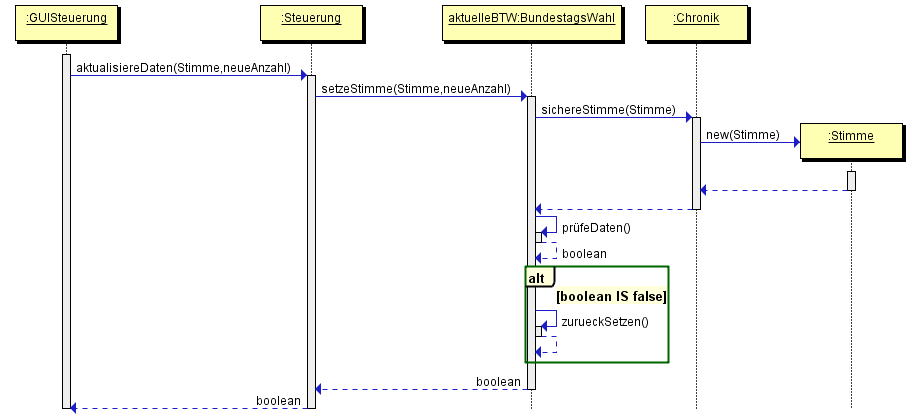
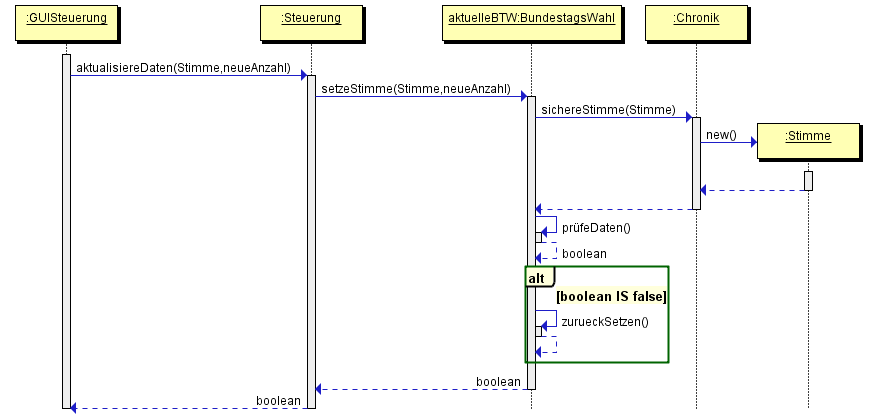
Chronik fix.

diff --git a/Entwurf/Entwurfsdokument/Entwurf.tex b/Entwurf/Entwurfsdokument/Entwurf.tex
@@ -74,7 +74,7 @@ Außerdem wird Bundestagswahl im gesamten Entwurfsdokument durch BTW abgekürzt.
 \includegraphics[scale=0.4]{GUI-Abschnitt.png} \caption{GUI Komponente} 
 \end{figure}
 
-Zum GUI-Teil gehören alle Klassen, die dazu beitragen, das Datenmodell bestmöglich auf der grafischen Benutzeroberfläche darzustellen. Im folgenden werden wichtige Klasse der GUI erläutert. Bei dem Entwurf der GUI wurde Wert darauf gelegt, dass diese nahezu unabhängig von dem Rest des Programmes ist und dadurch mit wenig Aufwand ausgewechselt werden kann.
+Zum GUI-Teil gehören alle Klassen, die dazu beitragen, das Datenmodell bestmöglich auf der grafischen Benutzeroberfläche darzustellen. Im folgenden werden wichtige Klasse der GUI erläutert.
 
 
 \begin{description}
@@ -83,11 +83,11 @@ Zum GUI-Teil gehören alle Klassen, die dazu beitragen, das Datenmodell bestmög
 Das {\myma{ProgrammFenster}} repräsentiert das gesamte Programm auf der grafischen Benutzeroberfläche.\\
 	\begin{description}
 	\item {\mymo{{wechsleTab(w : WahlFenster)}}} \\
-	Es wird zu dem {\myma{WahlFenster}} w gewechselt. \\
+	Es wird zu dem WahlFenster w gewechselt. \\
 	\end{description}
 
 \item  {\myma{{VergleichsFenster}}} \\
-Das {\myma{VergleichsFenster}} ist ein Teil des {\myma{ProgrammFenster}}s, wenn zwei verschiedene {\myma{Bundestagswahl}}en verglichen werden.\\
+Das {\myma{VergleichsFenster}} ist ein Teil des ProgrammFensters, wenn zwei verschiedene {\myma{Bundestagswahl}}en verglichen werden.\\
 	\begin{description}
 	\item {\mymo{{zeigeVergleich()}}} \\
 	
@@ -96,35 +96,35 @@ Das {\myma{VergleichsFenster}} ist ein Teil des {\myma{ProgrammFenster}}s, wenn 
 	\end{description}
 
 \item  {\myma{{WahlFenster}}} \\
-Das {\myma{WahlFenster}} repräsentiert eine einzelne {\myma{Bundestagswahl}}. In einem \\{\myma{ProgrammFenster}} sind mehrere {\myma{WahlFenster}} möglich, die in Form von Tabs dargestellt werden.\\
+Das {\myma{WahlFenster}} repräsentiert eine einzelne {\myma{Bundestagswahl}}. In einem {\myma{ProgrammFenster}} sind mehrere {\myma{WahlFenster}} möglich, die in Form von Tabs dargestellt werden.\\
 	\begin{description}
 	\item {\mymo{{wechsleAnsicht(a : Ansicht)}}} \\
-	Wechselt entweder zur {\myma{Bundes-}}, {\myma{Landes-}} und {\myma{Wahlkreisansicht}}. \\
+	Wechselt zur Ansicht a. \\
 	\item {\mymo{{bundestagswahlDarstellen(btw : Bundestagswahl)}}} \\
-	Verteilt an die drei Ansichten die Arbeit, das {\myma{Bundeswahl}}-Objekt btw darzustellen. \\
+	Verteilt an die drei Ansichten die Arbeit, das Bundeswahl-Objekt btw darzustellen. \\
 	\end{description} 
 
 \item  {\myma{{Ansicht}}} \\
 Die {\myma{Ansicht}} ist eine abstrakte Klasse. Diese kann drei Arten von Ansichten sein, {\myma{Bundes-}} {\myma{Landes-}} und {\myma{Wahlkreisansicht}}. Diese werden im Folgenden nicht näher erläutert.\\
 	\begin{description}
 	\item {\mymo{{zeigeKomponenten(btw : Bundestagswahl)}}} \\
-	In jeder der drei Ansichten wird die Darstellung, des {\myma{Bundestagswahl}}-Objekts auf die drei Fenster aufgeteilt. \\
+	In jeder der drei Ansichten wird die Darstellung, des Bundestagswahl-Objekts auf die drei Fenster aufgeteilt. \\
 	\end{description}
 
 \item  {\myma{{TabellenFenster}}} \\
-Das {\myma{TabellenFenster}} repräsentiert das im Pflichtenheft beschriebenen Tabellenfenster. Es stellt Teile der {\myma{Bundestagswahl}}-Klasse dar. \\
+Das {\myma{TabellenFenster}} korrespondiert zu dem im Pflichtenheft beschriebenen Tabellenfenster. Es stellt Teile der {\myma{Bundestagswahl}}-Klasse dar. \\
 	\begin{description}
 	\item {\mymo{{tabellenFuellen(btw : Bundestagswahl)}}} \\
-	Füllt das {\myma{TabellenFenster}} mit den notwendigen Daten des {\myma{Bundeswahl}}-Objekts.
+	Füllt das TabellenFenster mit den notwendigen Daten des Bundeswahl-Objekts.
 	\end{description}
 
 \item  {\myma{{DiagrammFenster}}} \\
-Das {\myma{DiagrammFenster}} stellt das im Pflichtenheft beschriebenen Diagrammfenster. Je nach {\myma{Ansicht}} wird dort die {\myma{Sitzverteilung}}, prozentuale Anzahl der {\myma{Zweit-}} oder {\myma{Erststimmen}} angezeigt. \\
+Das {\myma{DiagrammFenster}} korrespondiert zu dem im Pflichtenheft beschriebenen Diagrammfenster. Je nach {\myma{Ansicht}} wird dort die {\myma{Sitzverteilung}}, prozentuale Anzahl der {\myma{Zweit-}} oder {\myma{Erststimmen}} angezeigt. \\
 	\begin{description}
 	\item {\mymo{{erstelleDiagramm(btw : Bundestagswahl)}}} \\
 	Erstellt ein Diagramm auf Grund der Daten der Bundestagswahl btw.
 	\item {\mymo{{zeigeSitzverteilung()}}} \\
-	Öffnet ein {\myma{BerichtsFenster}}, in dem die Sitze der Verteilung näher erläutert werden.
+	Öffnet ein BerichtsFenster, in dem die Sitze der Verteilung näher erläutert werden.
 	\end{description}
 
 \item  {\myma{{KartenFenster}}} \\
@@ -133,14 +133,14 @@ Das {\myma{KartenFenster}} korrespondiert zu dem im Pflichtenheft beschriebenen 
 	\item {\mymo{{zeigeInformationen(btw : Bundestagswahl)}}} \\
 	Erstellt, wenn möglich, die kartografische Darstellung.
 	\item {\mymo{{faerbeBundeslaender(btw : Bundestagswahl))}}} \\
-	Färbt die einzelnen Bundesländer nach den {\myma{Partei}}en, die die meisten \\{\myma{Zweitstimme}}n haben. Diese Methode wird von zeigeInformationen benutzt.
+	Färbt die einzelnen Bundesländer nach den Parteien, die die meisten Zweitstimmen haben. Diese Methode wird von zeigeInformationen benutzt.
 	\end{description}
 
 \item  {\myma{{GUISteuerung}}} \\
-Die {\myma{GUISteuerung}} sorgt dafür, dass die aktuellste Version der {\myma{Bundestagswahl}} in einem {\myma{WahlFenster}} visualisiert wird. Dafür bekommt sie das aktuellste \\{\myma{Bundestagswahl}}-Objekt der {\myma{Steuerung}} und verteilt die Darstellungsarbeit an die Komponenten des {\myma{WahlFensters}}.
+Die {\myma{GUISteuerung}} sorgt dafür, dass die aktuellste Version der {\myma{Bundestagswahl}} in einem {\myma{WahlFenster}} visualisiert wird. Dafür bekommt sie das aktuellste {\myma{Bundestagswahl}}-Objekt der {\myma{Steuerung}} und verteilt die Darstellungsarbeit an die Komponenten des {\myma{WahlFensters}}.
 	\begin{description}
 	\item {\mymo{{aktualisiereWahlfenster()}}} \\
-	Diese Methode startet eine komplette Aktualisierung eines {\myma{WahlFenster}}s.
+	Diese Methode startet eine komplette Aktualisierung eines Wahlfensters.
 	\end{description}
 
 \end{description}
@@ -160,8 +160,9 @@ Folgende Methoden sind enthalten:
           \begin{description}
                \item {\mymo{prüfeDaten()}}\\
                Überprüft, ob die eingegebenen Stimmen gültig sind und unterzieht diese einem Konsistenz-Test. Die Methode wird nach jeder Stimmveränderung ausgeführt. Falls der Test nach einer Stimmveränderung fehlschlägt, wird die Stimme mithilfe der {\myma{Chronik}} zurückgesetzt und eine Fehlermeldung ausgegeben.
-              
-               \item {\mymo{setzeStimme(s:Stimme,anzahl:Integer) : Boolean}}\\
+              \item {\mymo{setzeStimme(s:Stimme) : Boolean}}\\
+              Eine BeDiese Funktion sucht alle Stimmen nach den selben Assoziationen und ruft 
+              \item {\mymo{setzeStimme(s:Stimme,anzahl:Integer) : Boolean}}\\
                Wird von der GUI über die Steuerung aufgerufen. Es wird das zu verändernde {\myma{Stimme}}-Objekt und die neue Anzahl der Stimmen übergeben. Es findet eine Vorüberprüfung statt, in der ermittelt wird was genau verändert wird. Es dürfen Erststimmen nur auf Wahlkreisebene und Zweitstimmen auf Wahlkreis-, Landes- und Bundesebene verändert werden. Die zu verändernde {\myma{Stimme}} wird geklont und in der {\myma{Chronik}} gespeichert. Dabei können drei Fälle auftreten: \\
                Falls die assoziierte Klasse von  {\myma{Stimme}}:\\
                ... ein {\myma{Wahlkreis}}-Objekt ist, wird der enthaltene Wert ``anzahl'' verändert in den Wert des übergebenen Parameters ``anzahl''. \\
@@ -252,33 +253,22 @@ Der obige Ausschnitt des Klassendiagramms zeigt das Wahldatengenerierungs-Modul.
 Zur Übersichtlichkeit werden in den Klassen {\myma{Partei}}, {\myma{Steuerung}} und {\myma{Bundestagswahl}} nur die für dieses Modul relevanten Informationen angezeigt.\\\\
 Mit diesem Modul können {\myma{Bundestagswahl}} Objekte anhand vorher definierten {\myma{Stimmanteilen}} auf Bundesebene generiert werden. Bei {\myma{Stimmanteile}} handelt es sich um eine Liste aller Parteien mit prozentualen Anteilen der Erst- und Zweitstimmen auf Bundesebene. Des weiteren benötigt der Wahlgenerator eine {\myma{basisWahl Bundestagswahl}} um Daten wie beispielsweise {\myma{Bundesländer}}, {\myma{Wahlkreise}} und {\myma{Wahlberechtigte}} zur Verfügung zu haben. Aus dieser basisWahl wird eine tiefe Kopie erstellt, deren Stimmzahlen anschließend verändert werden.\\\\
 
+Neben dem {\mymo Wahlgenerator}, der alle Stimmen der jeweiligen Parteien zufällig auf Wahlkreise verteilt gibt es noch den {\mymo NegStimmgewichtWahlgenerator}. Dieser erzeugt Bundestagswahlen, die die Voraussetzungen erfüllen, welche für die Simulation des Negativen Stimmgewichts benötigt werden.\\
+
+Dabei muss bei mindestens einer Partei der prozentuale Anteil ihrer relevanten Zweitstimmen größer als der prozentuale Anteil ihrer Mandate sein. Relevante Zweitstimmen sind all diejenigen Zweitstimmen, die auf Landeslisten abgegeben werden, die keine Überhangmandate erzielen.
+
+\subparagraph{Methoden}
 \begin{description}
-     \item {\myma{AbstrakterWahlgenerator}} \\
-     Ist eine abstrakte Oberklasse, die als Grundlage für die spezialisierten Klassen verwendet wird.     
-     
-     \item {\mymo{Wahlgenerator(basisWahl : Bundestagswahl, anteile : Stimmanteile)}} \\
+\item {\mymo{Wahlgenerator(basisWahl : Bundestagswahl, anteile : Stimmanteile)}} \\
 Der Konstruktor dieser Klasse. Wird verwendet um einen neuen {\mymo{Wahlgenerator}} zu erstellen. Hier werden die Attribute basisWahl, anteile, erststimmenAnzahl und zweitstimmenAnzahl gesetzt.
 \item {\mymo{berechneGesamtanzahlStimmen()}} \\
 Diese Methode ist privat und wird von dem Konstruktor verwendet um die Attribute {\mymo{anzahlErststimmen}} und {\mymo{anzahlZweitstimmen}} zu berechen. Hierzu werden die Stimmanteile mithilfe der Anzahl aller Wahlberechtigten in absolute Zahlen für Erst- und Zweitstimmen umgerechnet.
 \item {\mymo{erzeugeBTW() : Bundestagswahl}} \\
 Erzeugt eine neue Bundestagswahl auf der Grundlage der basisWahl und füllt diese mit den Erst- und Zweitstimmen.
 \item {\mymo{verteileStimmen()}} \\
-Diese Methode verteilt alle Erst- und Zweitstimmen auf die Wahlkreise der Bundestagswahl. Diese Methode muss in jeder Unterklasse von Wahlgenerator implementiert werden.     
-     
-     \item {\myma{Wahlgenerator}} \\
-	Bei diesem Wahlgenerator werden alle Stimmen der jeweiligen Parteien zufällig auf Wahlkreise verteilt.
-     \item {\mymo{verteileStimmen()}} \\
-	Zufällige Verteilung aller Stimmen der Parteien auf Wahlkreise.     
-     
-     \item {\myma{NegStimmgewichtWahlgenerator}} \\
-     Dieser Wahlgenerator erzeugt Bundestagswahlen, die die Voraussetzungen erfüllen, welche für die Simulation des Negativen Stimmgewichts benötigt werden.
-     \item {\mymo{verteileStimmen()}} \\
-Die Stimmen müssen so verteilt werden, dass bei mindestens einer Partei der prozentuale Anteil ihrer relevanten Zweitstimmen größer als der prozentuale Anteil ihrer Mandate sein. Relevante Zweitstimmen sind all diejenigen Zweitstimmen, die auf Landeslisten abgegeben werden, die keine Überhangmandate erzielen.
-     \item {\myma{Stimmanteile}} \\
-     Diese Klasse enthält die Zuordnung zwischen Parteien und der prozentualen Erst- und Zweitstimmen.     
-     
+Diese Methode verteilt alle Erst- und Zweitstimmen auf die Wahlkreise der Bundestagswahl. Diese Methode muss in jeder Unterklasse von Wahlgenerator implementiert werden.
 \end{description}
-     
+
 \newpage
 \subsection{Chronik}
 \begin{figure}[!ht]
